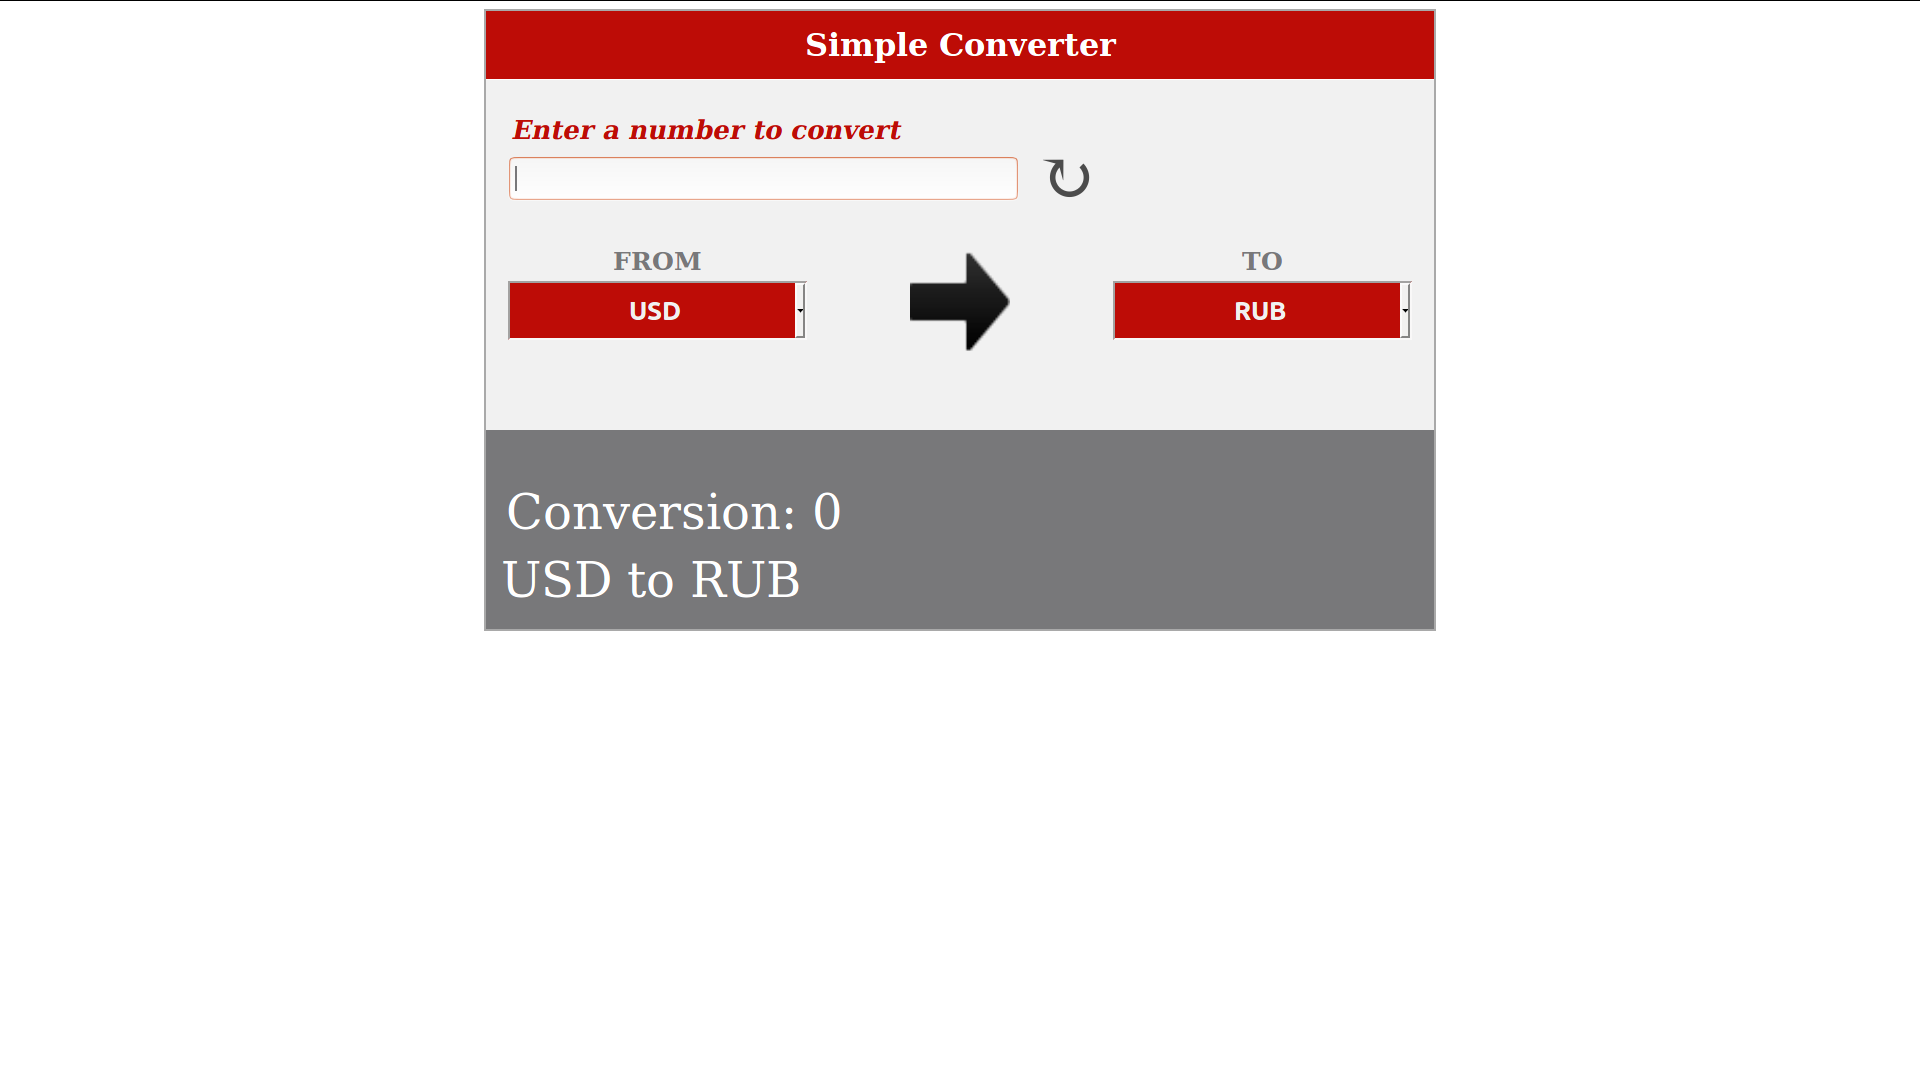
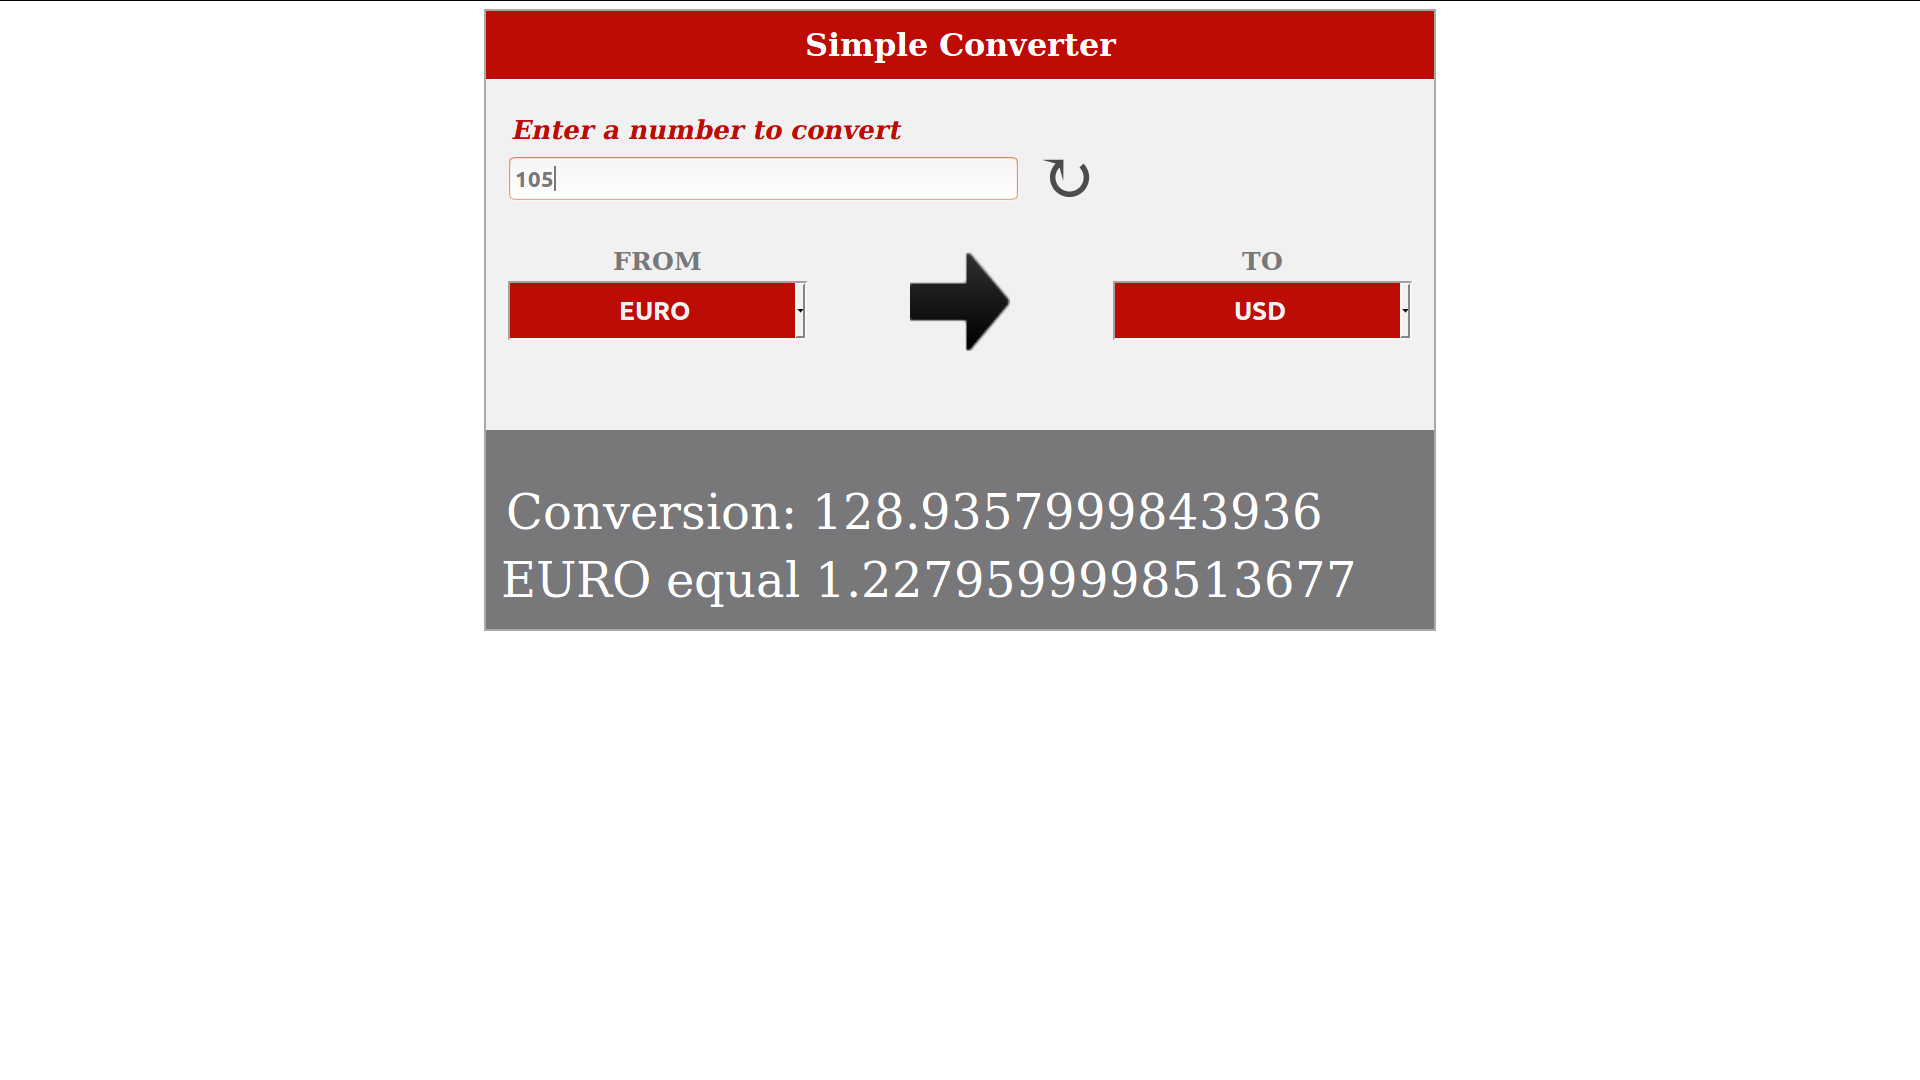
may be last changes

diff --git a/src/Components/Converter/Converter.js b/src/Components/Converter/Converter.js
@@ -14,8 +14,9 @@ class Converter extends React.Component {
             outputValue : "",
             fromCurr : "",
             toCurr : "",
-        }
-            this.makeConversion = debounce(this.makeConversion.bind(this) , 2500)
+            rate : ""
+        };
+            this.makeConversion = debounce(this.makeConversion.bind(this) , 2000)
     }
 
     enterData(e){
@@ -42,11 +43,13 @@ class Converter extends React.Component {
 
         if (fromCurr === "USD") {
             this.setState({
-                outputValue: inVal * USD_TO_CURR[toCurr]
+                outputValue: inVal * USD_TO_CURR[toCurr],
+                rate :  USD_TO_CURR[toCurr] ,
             })
         } else {
             this.setState({
                 outputValue : (USD_TO_CURR[toCurr] / USD_TO_CURR[fromCurr]) * inVal ,
+                rate : (USD_TO_CURR[toCurr] / USD_TO_CURR[fromCurr]) ,
             })
         }
     }
@@ -100,7 +103,7 @@ class Converter extends React.Component {
 
                 <div className="Converter_output">
                     <p className="Converter_output_value" >Conversion: {this.state.outputValue}</p>
-                    <p className="Converter_output_rate">{this.state.fromCurr} to {this.state.toCurr} </p>
+                    <p className="Converter_output_rate">{this.state.fromCurr} equal {this.state.rate}</p>
                 </div>
 
             </div>
